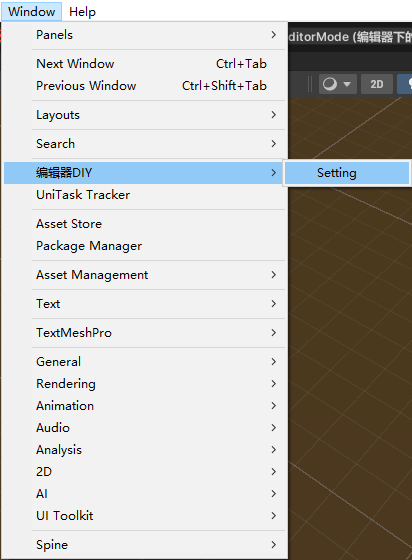
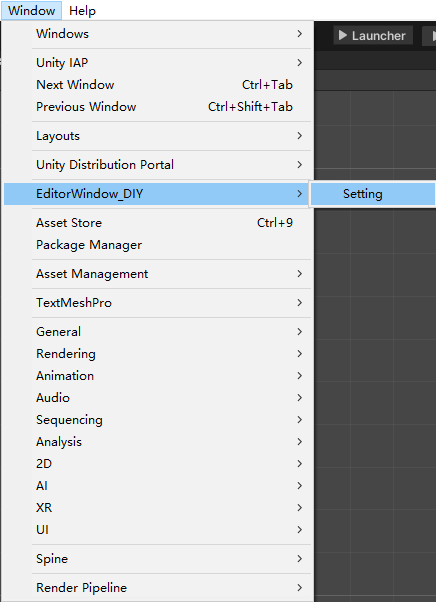
使插件国际化~

diff --git a/Editor/SettingEditorWindow.cs b/Editor/SettingEditorWindow.cs
@@ -23,7 +23,7 @@ namespace SaberDIYEditor.Editor
     }
     internal class SettingEditorWindow :EditorWindow
     {
-        [MenuItem("Window/编辑器DIY/Setting")]
+        [MenuItem("Window/EditorWindow_DIY/Setting")]
         static void Open()
         {
             EditorWindow.GetWindow<SettingEditorWindow>().Show();
@@ -90,7 +90,7 @@ namespace SaberDIYEditor.Editor
 
             GUILayout.Space(20);
             EditorGUILayout.BeginHorizontal();
-            EditorGUILayout.LabelField("图片路径:", GUILayout.Width(60));  // 设置标签宽度
+            EditorGUILayout.LabelField("Pic_Path:", GUILayout.Width(60));  // 设置标签宽度
             var tp = EditorGUILayout.TextField(texturePath);
             // 处理拖放操作
             Rect dropArea = GUILayoutUtility.GetLastRect();
@@ -110,7 +110,7 @@ namespace SaberDIYEditor.Editor
             }
             GUILayout.Space(10);
             EditorGUILayout.BeginHorizontal();
-            EditorGUILayout.LabelField("图片颜色:", GUILayout.Width(60));  // 设置标签宽度
+            EditorGUILayout.LabelField("Color:", GUILayout.Width(60));  // 设置标签宽度
             var tempColor = EditorGUILayout.ColorField(color);
             if (tempColor != color)
             {
@@ -121,7 +121,7 @@ namespace SaberDIYEditor.Editor
             EditorGUILayout.EndHorizontal();
             GUILayout.Space(10);
             EditorGUILayout.BeginHorizontal();
-            EditorGUILayout.LabelField("是否启用:", GUILayout.Width(60));  // 设置标签宽度
+            EditorGUILayout.LabelField("IsEnable:", GUILayout.Width(60));  // 设置标签宽度
             var open = EditorGUILayout.Toggle(isOpen);
             if (open != isOpen)
             {
